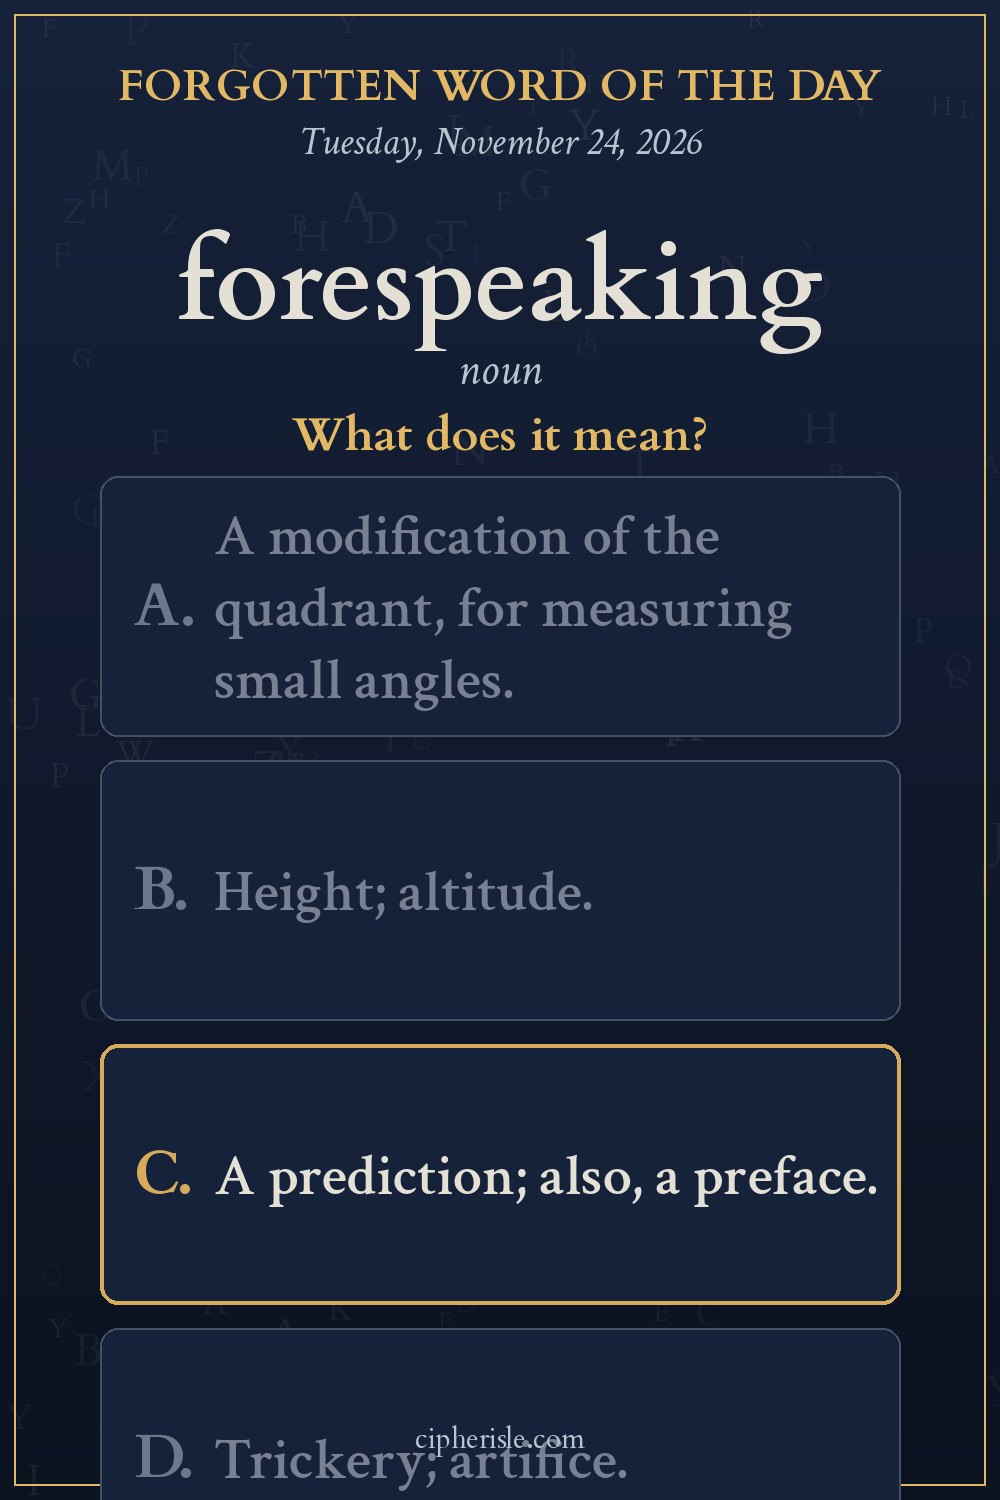
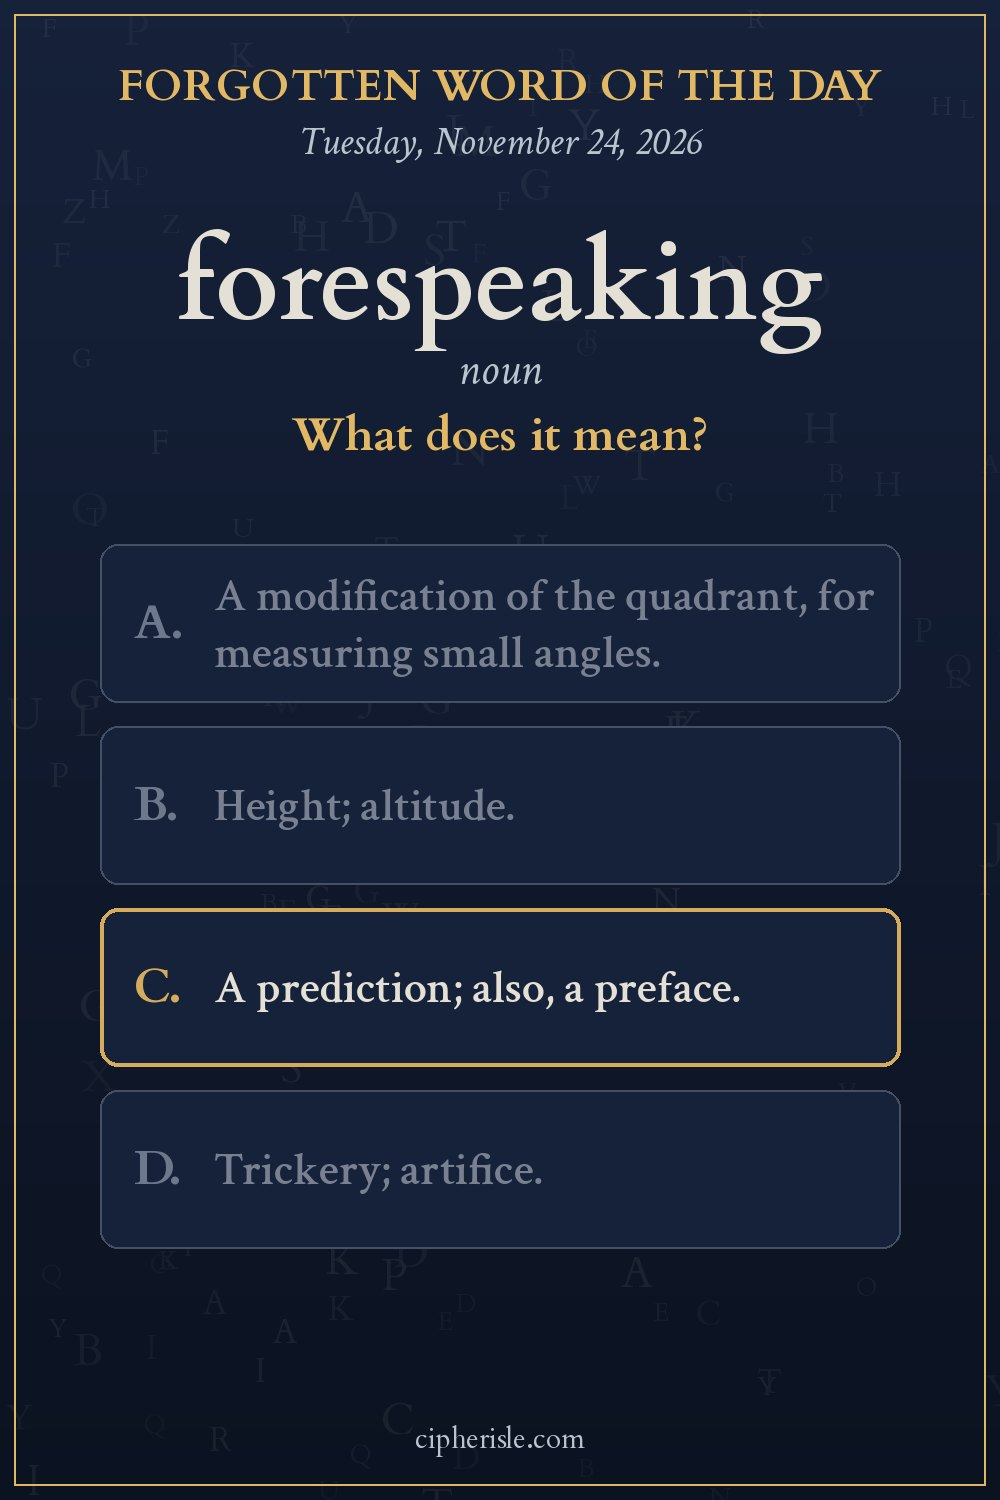
Of the day: answers shrink to fit above the footer
Claude-Session: https://claude.ai/code/session_013cDisHzdKydWMGRqShFePh

diff --git a/daily.py b/daily.py
@@ -178,14 +178,16 @@ def quiz(spec, day, seed, solved, W=1600, H=1000):
         y += 70
     opts = [o[:1].upper() + o[1:] for o in spec["options"]]
     cols = 2 if wide and all(len(o) <= 34 for o in opts) else 1
-    osz = 40 if wide else 58
-    fo = font("CrimsonText-SemiBold.ttf", osz)
-    lh = int(osz * 1.25)
     gap, bw = 24, (W - 200 - (cols - 1) * 24) // cols
-    boxes = [wrap(d, o, fo, bw - 130)[:3] for o in opts]
-    bh = max(int(osz * 2.4), max(len(b) for b in boxes) * lh + 44)
     rows = (len(opts) + cols - 1) // cols
     foot = 160 if solved and spec.get("note") else 100
+    for osz in ((40, 36, 32, 28) if wide else (58, 52, 46, 40, 36)):   # the largest answers that fit
+        fo = font("CrimsonText-SemiBold.ttf", osz)
+        lh = int(osz * 1.25)
+        boxes = [wrap(d, o, fo, bw - 130)[:3] for o in opts]
+        bh = max(int(osz * 2.4), max(len(b) for b in boxes) * lh + 44)
+        if y + 20 + rows * (bh + gap) <= H - foot:
+            break
     y0 = y + 20 + max(0, (H - foot - (y + 20) - rows * (bh + gap)) // 2)
     for i, lines_ in enumerate(boxes):
         x = 100 + (i % cols) * (bw + gap)
